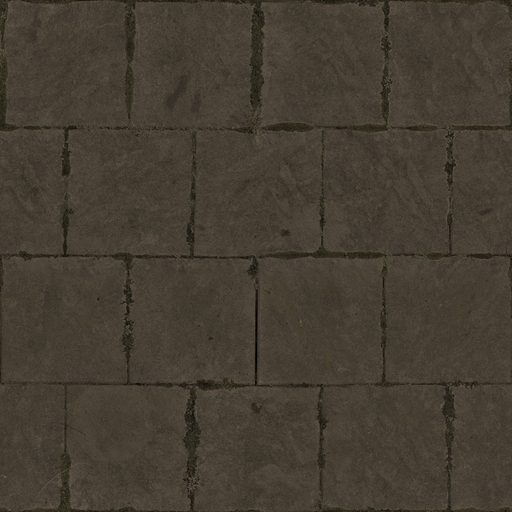
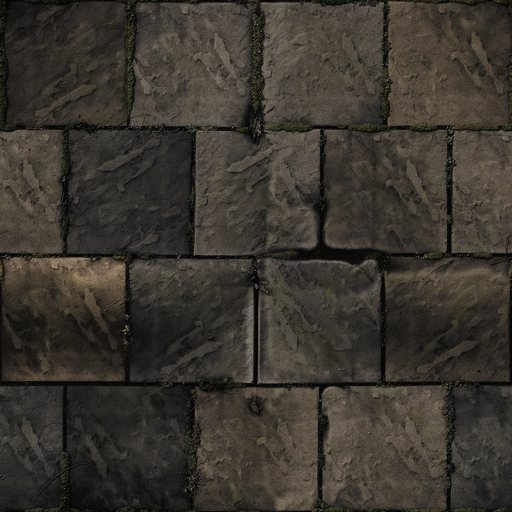
Первая локация: пол в стиле Diablo Immortal
Плоские плиты заменены объёмными: в Tiles098 заранее запечён свет по
карте нормалей (сверху-слева), AO и грязь в швах, у каждой плиты свой
тон, от серо-синего до бурого. Получаются крупные плиты с фаской и тёмными
щелями, как в подземельях Diablo Immortal. Файл тот же
(images/floor/cathedral.jpg, 54 KB), код подключения не менялся.

Claude-Session: https://claude.ai/code/session_01U33EjGXiwQVyB2mA9gopom

diff --git a/js/themes.js b/js/themes.js
@@ -252,7 +252,7 @@ function _hubLavaTex() {
 }
 
 // ── Пол из готовых текстур ────────────────────────────────────────────────────
-// База — плитка храма, первая локация — плиты собора (как в Diablo),
+// База — плитка храма, первая локация — плиты подземелья (как в Diablo Immortal),
 // фарм-зоны — раскалённая лава. Фото-материалы
 // ambientCG (Tiles093, Tiles098, Lava002; CC0 — можно без указания автора), ужаты до
 // 512px и затемнены под палитру игры заранее: ctx.filter на старых iOS нет.
@@ -266,8 +266,10 @@ function _hubLavaTex() {
 const _FLOOR_IMG = {
   temple: { src: '/images/floor/temple_tiles.jpg', px: 420, wallBase: '#38342f', brick: [60, 56, 52] },
   lava:   { src: '/images/floor/lava.jpg',         px: 420, wallBase: '#3a1d14', brick: [66, 34, 26] },
-  // Первая локация (левый рукав) — плиты собора в духе Diablo: крупные
-  // серо-бурые каменные плиты с тёмными швами (ambientCG Tiles098).
+  // Первая локация (левый рукав) — плиты подземелья в духе Diablo Immortal:
+  // крупные объёмные плиты с фаской, у каждой свой тон, грязь в швах. Это
+  // ambientCG Tiles098, в который заранее запечён свет по карте нормалей и AO
+  // (свет сверху-слева), так что рельеф виден без освещения в игре.
   cathedral: { src: '/images/floor/cathedral.jpg', px: 320, wallBase: '#3a3128', brick: [64, 54, 44] },
 };
 const _floorImgCache = {};
